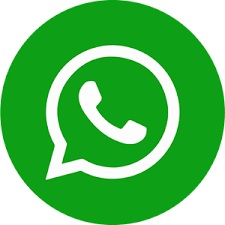
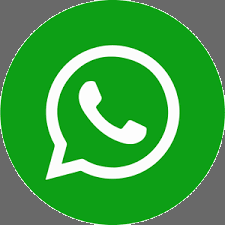
Add files via upload

diff --git a/index.html b/index.html
@@ -27,21 +27,21 @@
                 
                 <img class="icon" src="img/github.png">
 
-                <img class="icon" src="img/whatsapp.png">
+                <img class="icon" src="img/whatsapp2.png">
                 
             </div>
         </div>
     </header> 
+                        
     <div class="container">
         <div class="row">
-            
+            <h1>About me</h1>
         </div>
-    </div>                     
-                       
+    </div>                   
                     
     <div class="container">
         <div class="row">
-            <h1>Meus projetos</h1>
+            <h1>My projects</h1>
         </div>
     </div>
     <div class="container">

diff --git a/style/main.css b/style/main.css
@@ -1,3 +1,11 @@
+* {
+  background-color:dimgray;
+  
+  
+}
+
+
+
 
 .container {
   display: flex;
@@ -5,7 +13,10 @@
   justify-content:space-evenly;
   text-align: center;
   margin-bottom: 30px;
-  
+  padding: 10px;
+  color: white;
+  font-family:Verdana, Geneva, Tahoma, sans-serif;
+  border-radius: 10px 20px 30px 40px;
 }
 
 

diff --git a/js/main.js b/js/main.js
@@ -1,0 +1,3 @@
+document.addEventListener("DOMContentLoaded", function() {
+    document.body.style.background = "Black";
+  }); 
